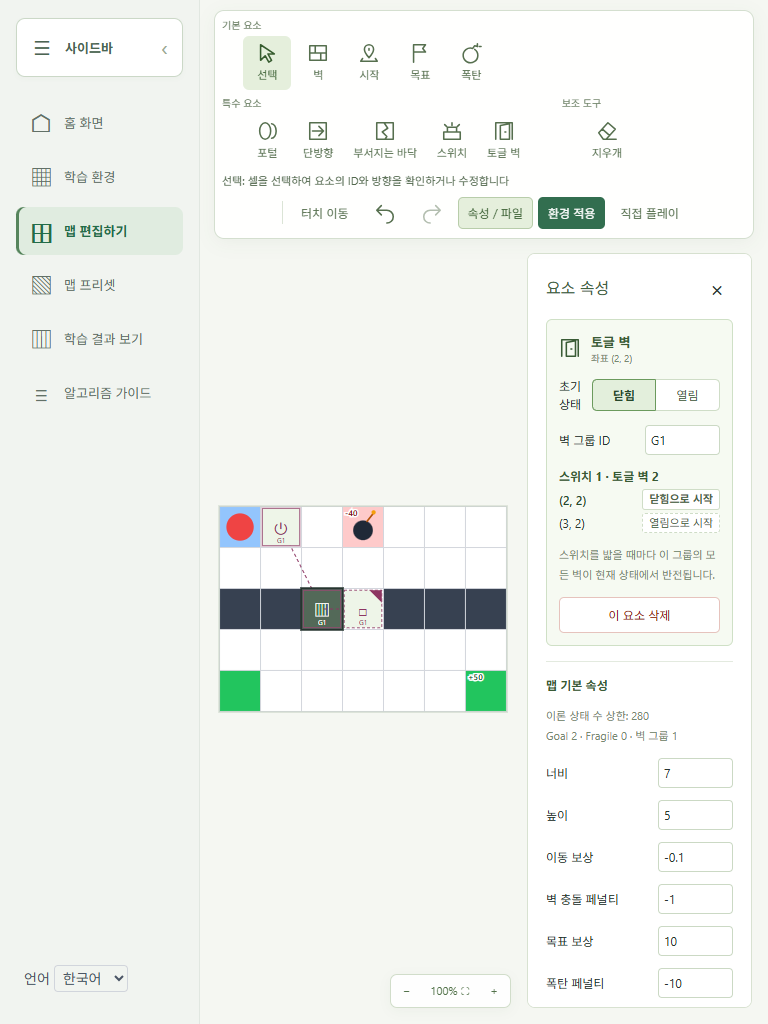
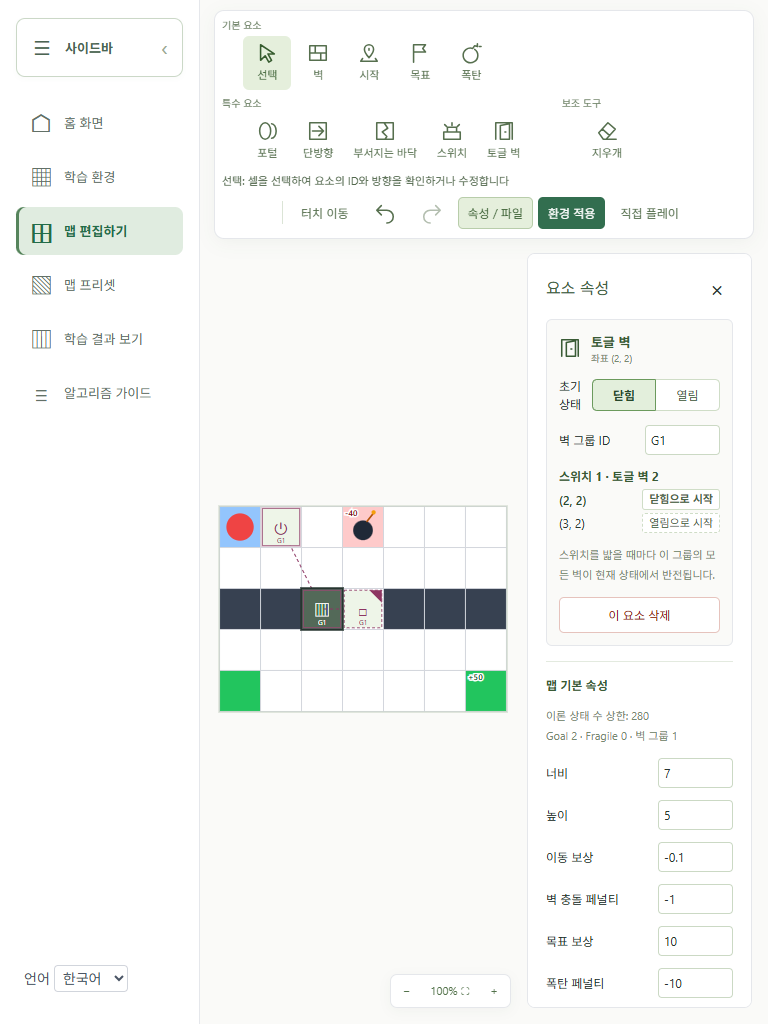
style: unify app backgrounds with shared bg/surface/line tokens
Add --bg-app (#FAFAF8), --surface (#FFFFFF) and --line (#E5E7EB) and route
page, sidebar, topbar, toolbar, panel, drawer, popover and card surfaces and
their borders through them. Sage accents, status colors and GridWorld tile
colors are unchanged; no shadows or gradients added. Adds before/after
screenshots and a report section.

diff --git a/src/index.css b/src/index.css
@@ -1,6 +1,6 @@
 @import "tailwindcss";
 
-:root { font-family: Inter, "Segoe UI", "Noto Sans KR", sans-serif; color: #26352f; background: #f8faf8; font-synthesis: none; -webkit-font-smoothing: antialiased; }
+:root { --bg-app: #FAFAF8; --surface: #FFFFFF; --line: #E5E7EB; font-family: Inter, "Segoe UI", "Noto Sans KR", sans-serif; color: #26352f; background: var(--bg-app); font-synthesis: none; -webkit-font-smoothing: antialiased; }
 * { box-sizing: border-box; }
 button, select, input { font: inherit; }
 button { cursor: pointer; }
@@ -9,7 +9,7 @@ button, a, input, select { -webkit-tap-highlight-color: transparent; }
 :focus-visible { outline: 3px solid #248861; outline-offset: 4px; }
 [hidden] { display: none !important; }
 .app-shell { --sidebar-width: 236px; min-height: 100vh; }
-.sidebar { position: fixed; inset: 0 auto 0 0; width: var(--sidebar-width); background: #f1f4f0; border-right: 1px solid #e1e7e1; display: flex; flex-direction: column; padding: 30px 18px 24px; z-index: 30; transition: width .2s; }
+.sidebar { position: fixed; inset: 0 auto 0 0; width: var(--sidebar-width); background: var(--surface); border-right: 1px solid var(--line); display: flex; flex-direction: column; padding: 30px 18px 24px; z-index: 30; transition: width .2s; }
 .brand { display: flex; align-items: center; gap: 12px; padding: 0 8px 27px; white-space: nowrap; font-size: 16px; font-weight: 700; letter-spacing: -.6px; }
 .brand small { display: block; font-size: 8px; letter-spacing: 1.7px; font-weight: 500; margin-top: 5px; color: #76857b; }
 .brand-mark { display: grid; place-content: center; position: relative; flex-shrink: 0; background: #176a4c; color: white; border-radius: 12px 12px 12px 3px; width: 37px; height: 37px; font-size: 24px; font-weight: 500; font-style: italic; letter-spacing: -5px; padding-right: 5px; }
@@ -24,7 +24,7 @@ button, a, input, select { -webkit-tap-highlight-color: transparent; }
 .nav-dot { width: 5px; height: 5px; border-radius: 50%; background: #44825b; margin-left: auto; }
 .tiny-orbit { font-size: 34px; color: #8da77e; }
 .workspace { margin-left: var(--sidebar-width); min-width: 0; transition: margin-left .2s; }
-.topbar { height: 73px; display: flex; justify-content: space-between; align-items: center; gap: 12px; padding: 0 44px; border-bottom: 1px solid #e8ece6; background: #fdfefd; }
+.topbar { height: 73px; display: flex; justify-content: space-between; align-items: center; gap: 12px; padding: 0 44px; border-bottom: 1px solid var(--line); background: var(--surface); }
 .breadcrumb { display: flex; align-items: center; gap: 15px; font-size: 11px; color: #8a968e; }
 .breadcrumb strong { color: #4e5e52; font-weight: 500; }
 #mobile-menu { display: none; }
@@ -48,7 +48,7 @@ button, a, input, select { -webkit-tap-highlight-color: transparent; }
 .hero-meta { font-size: 10px; color: #8a978b; margin-top: 18px; }
 .algorithm-tags { display: flex; gap: 7px; margin-top: 37px; }
 .algorithm-tags span { border: 1px solid #e0e6dd; border-radius: 4px; font-size: 9px; padding: 5px 9px; color: #7c897c; background: #f3f6f0; }
-.demo-card { background: #fff; border: 1px solid #dce6da; border-radius: 14px; padding: 23px; box-shadow: 0 14px 45px #365a3410; max-width: 510px; width: 100%; justify-self: end; }
+.demo-card { background: var(--surface); border: 1px solid var(--line); border-radius: 14px; padding: 23px; box-shadow: 0 14px 45px #365a3410; max-width: 510px; width: 100%; justify-self: end; }
 .demo-heading { display: flex; justify-content: space-between; align-items: center; gap: 8px; font-size: 10px; letter-spacing: 1.5px; font-weight: 600; color: #607664; }
 .demo-label { padding: 4px 7px; border: 1px solid #dde7d8; border-radius: 4px; color: #718469; font-size: 8px; letter-spacing: .5px; }
 .demo-tabs { display: flex; padding: 4px; background: #f1f5ef; border-radius: 6px; margin: 18px 0; gap: 4px; }
@@ -79,7 +79,7 @@ button, a, input, select { -webkit-tap-highlight-color: transparent; }
 .section-heading h2, .algorithm-section h2 { font-size: 21px; letter-spacing: -.8px; font-weight: 650; color: #3d5540; margin-top: 8px; }
 .section-heading > p, .algorithm-section > div > p { font-size: 10px; color: #8c9887; margin-top: 12px; }
 .concept-grid { display: grid; grid-template-columns: repeat(3, 1fr); gap: 16px; }
-.concept-card { border: 1px solid #e2e8dd; background: #fff; border-radius: 9px; padding: 23px; }
+.concept-card { border: 1px solid var(--line); background: var(--surface); border-radius: 9px; padding: 23px; }
 .concept-top { display: flex; align-items: center; justify-content: space-between; margin-bottom: 18px; }
 .concept-top > span { display: grid; place-items: center; width: 33px; height: 33px; background: #eff4e8; border-radius: 9px; color: #72905a; font-size: 22px; }
 .concept-top small { font-size: 8px; color: #9ca795; letter-spacing: 1px; }
@@ -87,12 +87,12 @@ button, a, input, select { -webkit-tap-highlight-color: transparent; }
 .concept-card p { font-size: 11px; line-height: 1.9; color: #879380; }
 .algorithm-section { border-top: 1px solid #e1e8dd; padding: 32px 0; }
 .algorithm-grid { display: grid; grid-template-columns: 1fr 1fr; gap: 18px; margin: 23px 0 10px; }
-.algorithm-grid article { border: 1px solid #e1e8dd; padding: 24px; border-radius: 9px; background: #f3f6ef; }
+.algorithm-grid article { border: 1px solid var(--line); padding: 24px; border-radius: 9px; background: var(--surface); }
 .algorithm-badge { font-size: 8px; letter-spacing: 1px; color: #6f8d5a; }
 .algorithm-grid h3 { font-size: 20px; color: #4e684c; margin: 8px 0; font-weight: 600; }
 .algorithm-grid p { font-size: 12px; line-height: 1.9; color: #819078; margin-bottom: 16px; }
 .algorithm-grid code { font-size: 11px; color: #638356; }
-.home-footer { border-top: 1px solid #e1e8dd; display: flex; justify-content: space-between; gap: 12px; color: #9aa690; font-size: 9px; padding: 24px 0; }
+.home-footer { border-top: 1px solid var(--line); display: flex; justify-content: space-between; gap: 12px; color: #9aa690; font-size: 9px; padding: 24px 0; }
 .home-footer span:first-child { color: #6a7c61; font-weight: 600; }
 .home-footer span:last-child { font-size: 7px; letter-spacing: 1px; }
 .page-heading { font-size: 27px; color: #31573d; font-weight: 650; margin-bottom: 10px; }
@@ -101,7 +101,7 @@ button, a, input, select { -webkit-tap-highlight-color: transparent; }
 .simulator > div > div { min-width: 0; }
 .simulator button, .simulator select, .simulator input { accent-color: #3a7c56; }
 .simulator button { border-radius: 6px; }
-.simulator .border { border-color: #dfe7da; border-radius: 9px; background-color: #fff; }
+.simulator .border { border-color: var(--line); border-radius: 9px; background-color: var(--surface); }
 .simulator .bg-blue-600 { background-color: #397855; }
 .simulator .hover\:bg-blue-700:hover { background-color: #285d40; }
 .simulator .bg-purple-100 { background-color: #e8efde; color: #5d784a; }
@@ -139,7 +139,7 @@ button, a, input, select { -webkit-tap-highlight-color: transparent; }
 .is-collapsed .sidebar-language label { font-size: 0; gap: 0; }
 .is-collapsed .sidebar-language select { font-size: 10px; width: 56px; }
 .lab-mode .experiment-workspace { height: 100%; }
-.fullscreen-simulator { display: flex; flex-direction: row; align-items: stretch; width: 100%; height: 100%; max-width: none; padding: 0; gap: 0; background: #f5f7f2; }
+.fullscreen-simulator { display: flex; flex-direction: row; align-items: stretch; width: 100%; height: 100%; max-width: none; padding: 0; gap: 0; background: var(--bg-app); }
 .environment-screen, .editor-screen { flex: 1; min-width: 0; min-height: 0; height: 100%; }
 .workspace-stage { height: 100%; min-height: 0; padding: 76px 16px 16px; position: relative; }
 .grid-viewport-shell { height: 100%; min-height: 0; min-width: 0; position: relative; flex: 1; }
@@ -150,23 +150,23 @@ button, a, input, select { -webkit-tap-highlight-color: transparent; }
 .stage-overlay { position: absolute; inset: 0; display: block; width: 100%; height: 100%; pointer-events: none; }
 /* Overlay glyphs share the grid's no-text-selection rule (GridSvg sets it inline). */
 .stage-overlay { -webkit-user-select: none; user-select: none; }
-.zoom-controls { position: absolute; right: 8px; bottom: 8px; display: flex; border: 1px solid #d1ddca; border-radius: 7px; background: #ffffffef; z-index: 3; box-shadow: 0 3px 12px #2135200a; }
+.zoom-controls { position: absolute; right: 8px; bottom: 8px; display: flex; border: 1px solid var(--line); border-radius: 7px; background: var(--surface); z-index: 3; box-shadow: 0 3px 12px #2135200a; }
 .zoom-controls button { min-width: 32px; min-height: 32px; padding: 5px 8px; color: #52724a; font-size: 11px; }
-.floating-toolbar { position: absolute; top: 12px; left: 50%; transform: translateX(-50%); z-index: 12; width: max-content; max-width: calc(100% - 28px); display: flex; align-items: center; justify-content: center; flex-wrap: wrap; gap: 5px; padding: 7px; background: #fffffff5; border: 1px solid #d4dfcf; border-radius: 10px; box-shadow: 0 4px 18px #2645230d; }
+.floating-toolbar { position: absolute; top: 12px; left: 50%; transform: translateX(-50%); z-index: 12; width: max-content; max-width: calc(100% - 28px); display: flex; align-items: center; justify-content: center; flex-wrap: wrap; gap: 5px; padding: 7px; background: var(--surface); border: 1px solid var(--line); border-radius: 10px; box-shadow: 0 4px 18px #2645230d; }
 .floating-toolbar > button, .tool-buttons > button { min-height: 32px; padding: 6px 10px; border: 1px solid transparent; border-radius: 5px; white-space: nowrap; font-size: 12px; color: #566f4e; }
 .floating-toolbar button:hover { background: #eaf1e4; }
 .floating-toolbar button[aria-expanded=true], .tool-buttons button[aria-pressed=true] { background: #e5efdc; border-color: #b8cdaa; color: #365c2f; }
 .floating-toolbar .toolbar-primary { background: #326e4f; color: white; }
-.floating-toolbar .speed-slider { width: 148px; padding: 0 8px 0 3px; border-right: 1px solid #e4eadf; }
+.floating-toolbar .speed-slider { width: 148px; padding: 0 8px 0 3px; border-right: 1px solid var(--line); }
 .floating-toolbar .speed-slider-heading { font-size: 9px; margin-bottom: 0; gap: 5px; }
 .floating-toolbar .speed-slider-heading output { font-size: 8px; }
 .floating-toolbar .speed-slider-scale { display: none; }
 .floating-toolbar .speed-slider input { min-height: 18px; }
-.toolbar-popover { position: absolute; z-index: 15; top: 72px; right: 18px; width: 320px; max-width: calc(100% - 36px); max-height: calc(100% - 90px); overflow: auto; padding: 22px; display: flex; flex-direction: column; gap: 20px; background: #fff; border: 1px solid #d3dfcc; border-radius: 10px; box-shadow: 0 10px 40px #20391d16; font-size: 12px; }
+.toolbar-popover { position: absolute; z-index: 15; top: 72px; right: 18px; width: 320px; max-width: calc(100% - 36px); max-height: calc(100% - 90px); overflow: auto; padding: 22px; display: flex; flex-direction: column; gap: 20px; background: var(--surface); border: 1px solid var(--line); border-radius: 10px; box-shadow: 0 10px 40px #20391d16; font-size: 12px; }
 .toolbar-popover p, .property-fields p { font-size: 11px; color: #778970; line-height: 1.8; }
 .toolbar-popover input[type=number], .property-fields input { width: 75px; border: 1px solid #cbd9c4; padding: 5px; border-radius: 4px; background: white; }
 .toolbar-popover > label { display: flex; align-items: center; justify-content: space-between; gap: 10px; }
-.analysis-drawer { width: 365px; max-width: 42%; flex-shrink: 0; height: 100%; overflow-y: auto; overscroll-behavior: contain; border-left: 1px solid #d9e2d3; padding: 16px; background: #f9fbf6; }
+.analysis-drawer { width: 365px; max-width: 42%; flex-shrink: 0; height: 100%; overflow-y: auto; overscroll-behavior: contain; border-left: 1px solid var(--line); padding: 16px; background: var(--surface); }
 .analysis-drawer > header, .properties-panel > header, .map-gallery > header { display: flex; align-items: center; justify-content: space-between; gap: 10px; margin-bottom: 15px; }
 .analysis-drawer h2 { font-size: 16px; font-weight: 600; }
 .analysis-drawer header button, .properties-panel header button, .map-gallery header button { font-size: 22px; width: 32px; height: 32px; border-radius: 5px; }
@@ -178,15 +178,15 @@ button, a, input, select { -webkit-tap-highlight-color: transparent; }
 .fullscreen-editor { height: 100%; position: relative; }
 .editor-body { height: 100%; display: flex; padding: 76px 16px 16px; gap: 16px; }
 .tool-buttons { display: flex; flex-wrap: wrap; gap: 3px; }
-.properties-panel { width: 300px; max-width: 42%; flex-shrink: 0; overflow-y: auto; overscroll-behavior: contain; background: #fff; border: 1px solid #d8e2d1; border-radius: 8px; padding: 18px; }
+.properties-panel { width: 300px; max-width: 42%; flex-shrink: 0; overflow-y: auto; overscroll-behavior: contain; background: var(--surface); border: 1px solid var(--line); border-radius: 8px; padding: 18px; }
 .property-fields { display: flex; flex-direction: column; gap: 15px; font-size: 12px; }
 .property-fields label { display: flex; align-items: center; justify-content: space-between; gap: 8px; }
 .property-fields button { border: 1px solid #cfddc7; padding: 8px; border-radius: 5px; }
 .editor-validation { position: absolute; left: 14px; bottom: 8px; max-width: calc(100% - 28px); background: #fff5e5; color: #94642a; border: 1px solid #e7d0a6; border-radius: 5px; padding: 8px; font-size: 11px; z-index: 5; }
-.map-gallery { position: absolute; inset: 70px 18px 18px; z-index: 18; background: #fff; border: 1px solid #d5e0cd; border-radius: 12px; box-shadow: 0 12px 50px #1d371c20; padding: 22px; display: flex; flex-direction: column; min-height: 0; }
+.map-gallery { position: absolute; inset: 70px 18px 18px; z-index: 18; background: var(--surface); border: 1px solid var(--line); border-radius: 12px; box-shadow: 0 12px 50px #1d371c20; padding: 22px; display: flex; flex-direction: column; min-height: 0; }
 .gallery-body { display: grid; grid-template-columns: 1.3fr 1fr; min-height: 0; flex: 1; gap: 24px; }
 .gallery-thumbnails { display: grid; grid-template-columns: repeat(3, minmax(0, 1fr)); align-content: start; gap: 10px; overflow-y: auto; overscroll-behavior: contain; padding: 3px; }
-.gallery-thumbnails button { min-width: 0; border: 1px solid #dce5d5; border-radius: 7px; padding: 9px; text-align: left; background: #f8faf5; }
+.gallery-thumbnails button { min-width: 0; border: 1px solid var(--line); border-radius: 7px; padding: 9px; text-align: left; background: var(--bg-app); }
 .gallery-thumbnails button[aria-pressed=true] { border: 2px solid #6b9a5d; padding: 8px; background: #eef5e8; }
 .thumbnail-grid { display: block; width: 100%; height: auto; max-height: 240px; }
 .gallery-thumbnails span, .gallery-thumbnails small { display: block; font-size: 11px; margin-top: 6px; }
@@ -198,7 +198,7 @@ button, a, input, select { -webkit-tap-highlight-color: transparent; }
 .demo-card .demo-agent { border-radius: 50%; box-shadow: none; }
 @media (max-width: 1100px) { .workspace-stage, .editor-body { padding-top: 105px; } .toolbar-popover { top: 105px; } .floating-toolbar { top: 10px; } .results-view .analysis-content { grid-template-columns: repeat(2, minmax(0, 1fr)); } }
 @media (max-width: 760px) {
-  .lab-mode .topbar { display: block; position: absolute; top: 4px; left: 5px; width: 36px; height: 38px; padding: 0; background: #fff; border: 1px solid #d3dfcd; border-radius: 5px; z-index: 22; }
+  .lab-mode .topbar { display: block; position: absolute; top: 4px; left: 5px; width: 36px; height: 38px; padding: 0; background: #fff; border: 1px solid var(--line); border-radius: 5px; z-index: 22; }
   .lab-mode .topbar label, .lab-mode .breadcrumb strong, .lab-mode .breadcrumb > span { display: none; }
   .lab-mode .workspace { position: relative; }
   .floating-toolbar { max-width: calc(100% - 56px); left: calc(50% + 16px); top: 5px; padding: 4px; gap: 2px; }
@@ -226,20 +226,20 @@ button, a, input, select { -webkit-tap-highlight-color: transparent; }
 .analysis-toggle:hover { background: #e2ecda; }
 .analysis-toggle[aria-expanded=true] { background: #376c4b; color: #fff; }
 .lab-layout { display: flex; flex-direction: column; gap: 32px; min-width: 0; }
-.experiment-canvas { width: 100%; padding: 24px; border: 1px solid #e0e7dc; border-radius: 14px; background: #f0f4ec; }
+.experiment-canvas { width: 100%; padding: 24px; border: 1px solid var(--line); border-radius: 14px; background: var(--bg-app); }
 .experiment-canvas [data-testid="grid-stack"] { border: 1px solid #d1ddca; border-radius: 8px; overflow: hidden; background: white; box-shadow: 0 8px 30px #294a2710; }
-.lab-run-controls { display: flex; align-items: center; justify-content: center; flex-wrap: wrap; width: 100%; gap: 20px 30px; margin-top: 8px; padding: 18px; background: #fff; border: 1px solid #dfe7d8; border-radius: 10px; }
+.lab-run-controls { display: flex; align-items: center; justify-content: center; flex-wrap: wrap; width: 100%; gap: 20px 30px; margin-top: 8px; padding: 18px; background: var(--surface); border: 1px solid var(--line); border-radius: 10px; }
 .speed-slider { width: 280px; max-width: 100%; flex-shrink: 0; }
 .speed-slider-heading { display: flex; align-items: center; justify-content: space-between; gap: 10px; font-size: 12px; color: #687b61; margin-bottom: 8px; }
 .speed-slider-heading strong { color: #356745; font-weight: 600; }
 .speed-slider-heading output { font-size: 11px; color: #87917f; font-variant-numeric: tabular-nums; }
 .speed-slider input { width: 100%; display: block; min-height: 24px; cursor: pointer; }
 .speed-slider-scale { display: flex; justify-content: space-between; font-size: 10px; color: #8e9d85; margin-top: 3px; }
-.lab-settings { width: 100%; max-width: 760px; padding: 14px 18px; border: 1px solid #dce5d5; border-radius: 8px; background: #f9fbf6; color: #61785a; font-size: 13px; }
+.lab-settings { width: 100%; max-width: 760px; padding: 14px 18px; border: 1px solid var(--line); border-radius: 8px; background: var(--surface); color: #61785a; font-size: 13px; }
 .lab-settings summary { cursor: pointer; font-weight: 600; }
 .lab-settings-content { display: flex; flex-wrap: wrap; gap: 20px 30px; padding-top: 20px; }
 .lab-settings-content > * { flex: 1 1 250px; min-width: 0; }
-.analysis-panel { width: 100%; min-width: 0; padding: 24px; background: #f3f6ef; border: 1px solid #dce5d5; border-radius: 12px; scroll-margin-top: 90px; }
+.analysis-panel { width: 100%; min-width: 0; padding: 24px; background: var(--surface); border: 1px solid var(--line); border-radius: 12px; scroll-margin-top: 90px; }
 .analysis-heading { display: flex; justify-content: space-between; align-items: center; gap: 20px; margin-bottom: 22px; }
 .analysis-heading h2 { font-size: 21px; font-weight: 600; margin-top: 5px; }
 .analysis-heading button { font-size: 12px; color: #627958; padding: 8px 12px; border: 1px solid #d4dfcc; background: #fff; }
@@ -387,7 +387,7 @@ button, a, input, select { -webkit-tap-highlight-color: transparent; }
 .greedy-value { color: #236540; font-weight: bold; background: #e7f0e1; }
 .transition-diagram { display: flex; align-items: center; gap: 8px; margin: 22px 0; }
 .transition-diagram span { background: #e9f0e2; border: 1px solid #ceddc5; border-radius: 5px; padding: 10px; text-align: center; font-size: 12px; flex: 1; }
-.update-calculator, .exploration-example { background: #f6f8f2; padding: 18px; border: 1px solid #dae4d2; border-radius: 8px; margin: 20px 0; }
+.update-calculator, .exploration-example { background: var(--bg-app); padding: 18px; border: 1px solid var(--line); border-radius: 8px; margin: 20px 0; }
 .calculator-inputs { display: grid; grid-template-columns: repeat(2, minmax(0, 1fr)); gap: 16px; margin: 20px 0; }
 .calculator-inputs label { display: flex; flex-direction: column; gap: 6px; min-width: 0; font-size: 12px; }
 .calculator-inputs input { width: 100%; min-width: 0; background: #fff; border: 1px solid #ccdac3; padding: 6px; border-radius: 4px; }
@@ -439,7 +439,7 @@ button, a, input, select { -webkit-tap-highlight-color: transparent; }
 .scenario-grid > svg { display: block; width: 100%; height: auto; }
 .scenario-grid [data-testid=agent-marker] { transition: cx .4s ease, cy .4s ease; }
 .scenario-grid.is-teleport [data-testid=agent-marker] { transition: none; }
-.home-feature-links { display: grid; grid-template-columns: repeat(3, minmax(0, 1fr)); gap: 16px; border-top: 1px solid #dce5d7; padding: 20px 0; }
+.home-feature-links { display: grid; grid-template-columns: repeat(3, minmax(0, 1fr)); gap: 16px; border-top: 1px solid var(--line); padding: 20px 0; }
 .home-feature-links button { text-align: left; padding: 8px 0; }
 .home-feature-links strong { display: block; font-size: 14px; color: #346748; margin-bottom: 8px; }
 .home-feature-links span { font-size: 12px; line-height: 1.8; color: #758770; }
@@ -478,19 +478,19 @@ button, a, input, select { -webkit-tap-highlight-color: transparent; }
 }
 /* Usability upgrade: workspace-scoped notices, isolated manual play, concurrent demos. */
 .editor-edit-session { height: 100%; }
-.notice { position: absolute; z-index: 45; right: 16px; bottom: 70px; display: flex; align-items: flex-start; gap: 12px; max-width: min(360px, calc(100% - 32px)); max-height: min(180px, 35%); overflow: auto; padding: 12px 14px; background: #fff; border: 1px solid #cbd9c8; border-left: 3px solid #4b7958; border-radius: 10px; box-shadow: 0 6px 24px #253b2118; font-size: 12px; }
+.notice { position: absolute; z-index: 45; right: 16px; bottom: 70px; display: flex; align-items: flex-start; gap: 12px; max-width: min(360px, calc(100% - 32px)); max-height: min(180px, 35%); overflow: auto; padding: 12px 14px; background: var(--surface); border: 1px solid var(--line); border-left: 3px solid #4b7958; border-radius: 10px; box-shadow: 0 6px 24px #253b2118; font-size: 12px; }
 .notice > button { flex-shrink: 0; width: 30px; height: 30px; font-size: 20px; }
 .notice-error { border-left-color: #ae433a; }
 .notice-warning { border-left-color: #ad7d24; }
 .notice-details { margin-top: 5px; line-height: 1.6; }
-.manual-play { height: 100%; display: flex; flex-direction: column; gap: 12px; padding: 14px; background: #f0f4ec; }
+.manual-play { height: 100%; display: flex; flex-direction: column; gap: 12px; padding: 14px; background: var(--bg-app); }
 .manual-controls { display: flex; flex-wrap: wrap; align-items: center; gap: 10px; font-size: 12px; }
 .manual-controls button, .direction-pad button { background: white; border: 1px solid #cbd9c8; border-radius: 7px; padding: 9px 12px; }
 .manual-play > .grid-viewport-shell { min-height: 0; height: auto; flex: 1; }
 .direction-pad { display: flex; justify-content: center; gap: 8px; }
 .direction-pad button { min-width: 48px; min-height: 44px; font-size: 20px; }
 .demo-grid-gallery { display: grid; grid-template-columns: repeat(2, minmax(0,1fr)); gap: 12px; }
-.mini-demo { min-width: 0; padding: 10px; border: 1px solid #dce5d7; border-radius: 10px; background: #f8faf6; }
+.mini-demo { min-width: 0; padding: 10px; border: 1px solid var(--line); border-radius: 10px; background: var(--surface); }
 .mini-demo header { display: flex; flex-wrap: wrap; justify-content: space-between; gap: 6px; font-size: 11px; margin-bottom: 7px; }
 .mini-demo header span { color: #6a7b65; }
 .mini-demo .scenario-grid { margin: 0; padding: 0; }
@@ -500,7 +500,7 @@ button, a, input, select { -webkit-tap-highlight-color: transparent; }
 .demo-gallery details p { line-height: 1.7; margin: 6px 0; }
 .demo-gallery .demo-playback { flex-wrap: wrap; }
 .retention-note { font-size: 11px; color: #6a7b65; }
-.chapter-navigation { position: static; background: #f8faf8; }
+.chapter-navigation { position: static; background: var(--bg-app); }
 .chapter-pager { display: flex; justify-content: space-between; flex-wrap: wrap; gap: 10px; margin: 30px 0; }
 .chapter-pager button { border: 1px solid #d1deca; border-radius: 8px; padding: 12px; text-align: left; }
 .study-resources { border-top: 1px solid #dce5d7; margin-top: 24px; padding-top: 16px; font-size: 13px; }
@@ -523,7 +523,7 @@ button, a, input, select { -webkit-tap-highlight-color: transparent; }
 .mini-demo button.scenario-grid { display: block; cursor: zoom-in; max-width: none; border-radius: 3px; }
 .mini-demo .scenario-grid svg { max-height: none; width: 100%; height: auto; }
 .mini-demo [data-testid=agent-marker] { stroke: white; stroke-width: 3; }
-.demo-preview { position: fixed; inset: 0; margin: auto; max-width: min(92vw, 800px); max-height: 94dvh; overflow: auto; border: 1px solid #cad9c5; border-radius: 14px; padding: 20px; background: #f8faf5; color: #294535; }
+.demo-preview { position: fixed; inset: 0; margin: auto; max-width: min(92vw, 800px); max-height: 94dvh; overflow: auto; border: 1px solid var(--line); border-radius: 14px; padding: 20px; background: var(--surface); color: #294535; }
 .demo-preview::backdrop { background: #172b25aa; }
 .demo-preview header { display: flex; align-items: center; justify-content: space-between; gap: 20px; }
 .demo-preview header button { width: 40px; height: 40px; font-size: 24px; }
@@ -547,7 +547,7 @@ button, a, input, select { -webkit-tap-highlight-color: transparent; }
 .camera-viewport { overflow: hidden; position: relative; touch-action: none; }
 .camera-drawing { position: absolute; left: 50%; top: 50%; flex: none; }
 .camera-minimap { position: absolute; left: 10px; bottom: 10px; width: 90px; height: 70px; border: 1px solid #b9cbb1; background: #f8fbf5ee; pointer-events: none; overflow: hidden; }
-.preset-drawer.map-gallery { position: fixed; inset: 0; z-index: 100; width: auto; height: auto; padding: 24px; border: 0; background: #f8faf5; }
+.preset-drawer.map-gallery { position: fixed; inset: 0; z-index: 100; width: auto; height: auto; padding: 24px; border: 0; background: var(--bg-app); }
 .preset-drawer .gallery-body { display: grid; grid-template-columns: minmax(0, 2fr) minmax(280px, 1fr); overflow: hidden; }
 .preset-drawer .gallery-thumbnails { grid-template-columns: repeat(3,minmax(0,1fr)); }
 .preset-drawer .gallery-thumbnails img { width: 100%; height: 150px; object-fit: contain; background: #fff; }
@@ -591,7 +591,7 @@ button, a, input, select { -webkit-tap-highlight-color: transparent; }
   .floating-toolbar { justify-content: flex-start; }
   .mobile-language { top: 7px; right: 8px; bottom: auto; left: auto; }
   .lab-mode .page-content { padding-top: 48px; box-sizing: border-box; }
-  .lab-mode .topbar { display: flex; top: 0; left: 0; right: 0; width: 100%; height: 48px; padding: 4px 8px; border: 0; border-bottom: 1px solid #d3dfcd; border-radius: 0; background: #f8faf5; }
+  .lab-mode .topbar { display: flex; top: 0; left: 0; right: 0; width: 100%; height: 48px; padding: 4px 8px; border: 0; border-bottom: 1px solid var(--line); border-radius: 0; background: var(--surface); }
 }
 
 .reward-readout { position:absolute; left:12px; bottom:54px; z-index:8; display:flex; flex-wrap:wrap; gap:6px 16px; max-width:min(560px,calc(100% - 24px)); padding:8px 12px; border-radius:8px; background:#fffffff0; color:#253b2e; font-size:12px; pointer-events:none; }
@@ -657,7 +657,7 @@ button, a, input, select { -webkit-tap-highlight-color: transparent; }
 .property-fields h3 { font-size: 12px; font-weight: 600; color: #395b35; }
 .property-fields > .map-settings, .property-fields > .tool-settings { border-top: 1px solid #e3eadf; padding-top: 14px; }
 .property-fields > .tool-settings:first-of-type { border-top: 0; padding-top: 0; }
-.element-inspector { border: 1px solid #cfe0c6; background: #f6faf2; border-radius: 6px; padding: 12px; }
+.element-inspector { border: 1px solid var(--line); background: var(--bg-app); border-radius: 6px; padding: 12px; }
 .inspector-heading { display: flex; align-items: center; gap: 10px; color: #395b35; }
 .inspector-heading strong { display: block; font-size: 13px; }
 .inspector-heading small { display: block; color: #778970; font-variant-numeric: tabular-nums; }

diff --git a/docs/EDITOR_UX_V4_REPORT.md b/docs/EDITOR_UX_V4_REPORT.md
@@ -192,3 +192,18 @@
 | `208ebf1` | chore: record final-code V4 large-map render benchmark |
 
 구현 최종 커밋: `208ebf1`. 이 보고서는 그 위의 문서 커밋으로 추가되며, 최종 HEAD SHA는 푸시 후 PR/브랜치에서 확인한다.
+
+## 19. 배경 색상 정리 (V4 후속)
+
+공통 토큰 3개를 `:root`에 추가하고(`src/index.css`) 표면 규칙이 토큰을 참조하도록 바꿨다. 기존에는 CSS 변수가 없고 연한 녹색 계열 헥스 값이 규칙마다 흩어져 있었다.
+
+| 토큰 | 값 | 적용 |
+|---|---|---|
+| `--bg-app` | `#FAFAF8` | 앱 전체, 실험 캔버스, 직접 플레이, 전체 화면 프리셋 서랍, 선택 요소 카드, 갤러리 썸네일 |
+| `--surface` | `#FFFFFF` | 사이드바, 상단바, 툴바, 줌 컨트롤, 속성 패널, 분석 서랍/패널, 팝오버, 갤러리, 알림, 홈 카드, 모바일 상단바 |
+| `--line` | `#E5E7EB` | 위 표면들의 테두리와 구분선, 홈 하단·기능 링크 구분선 |
+
+유지한 것: 세이지 그린 포인트(버튼, 선택/호버/눌림 상태, 칩, 아이콘 색), 성공·경고·위험 색, GridWorld 타일 색, 레이아웃과 기능, 기존 그림자(추가한 그림자·그라데이션 없음). 입력창·작은 버튼의 연한 녹색 테두리는 포인트 색의 일부로 남겼다.
+
+검증: 린트·타입·빌드 통과, 단위 테스트 1,486 통과, 레이아웃에 민감한 E2E(`home`, `v4Editor`, `turbo`, `v3`) 41 통과 · 3 건너뜀. 계산된 스타일로 `html` 배경 `rgb(250,250,248)`, 사이드바·툴바 `#FFFFFF`를 확인했다. 전후 비교 스크린샷(데스크톱 1440×900, 모바일 iPhone 13): `docs/screenshots/v4-bg/`. `docs/screenshots/v4/`의 기존 V4 스크린샷도 새 팔레트로 다시 생성됐다.
+한계: 텍스트·버튼 색은 바꾸지 않았으므로 대비는 이전과 같다. 별도의 대비 측정 도구는 돌리지 않았다. 사이드바와 본문이 모두 밝아져 구분은 `--line` 1px 테두리에 의존한다.
